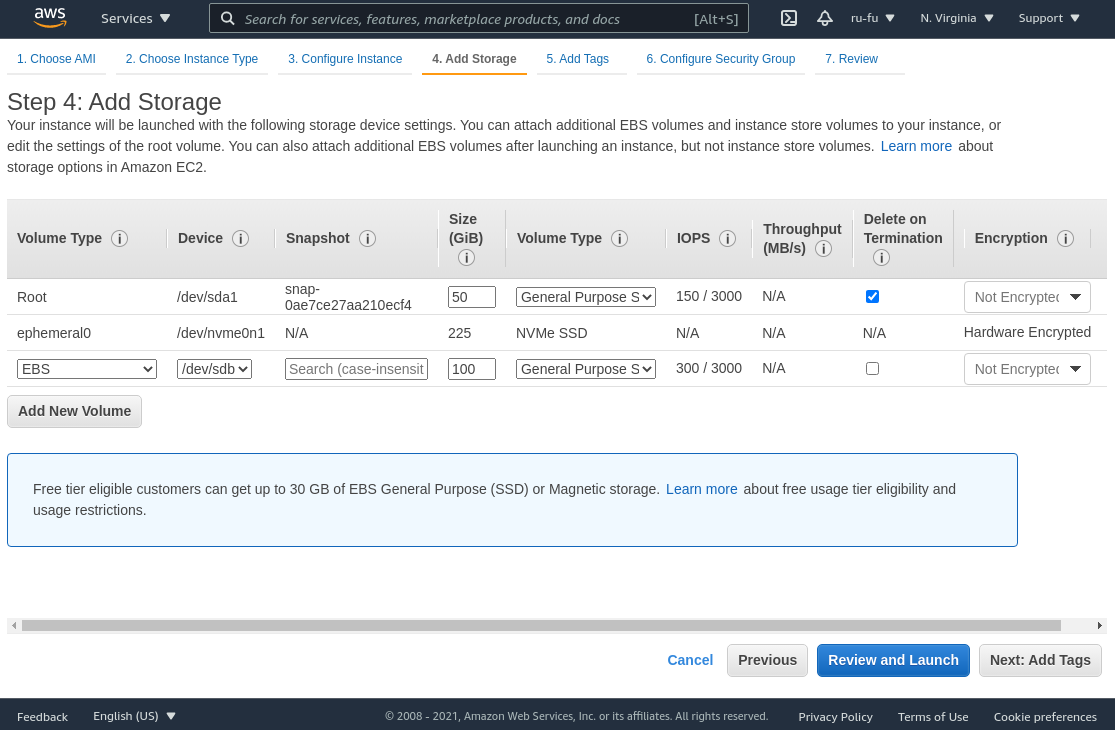
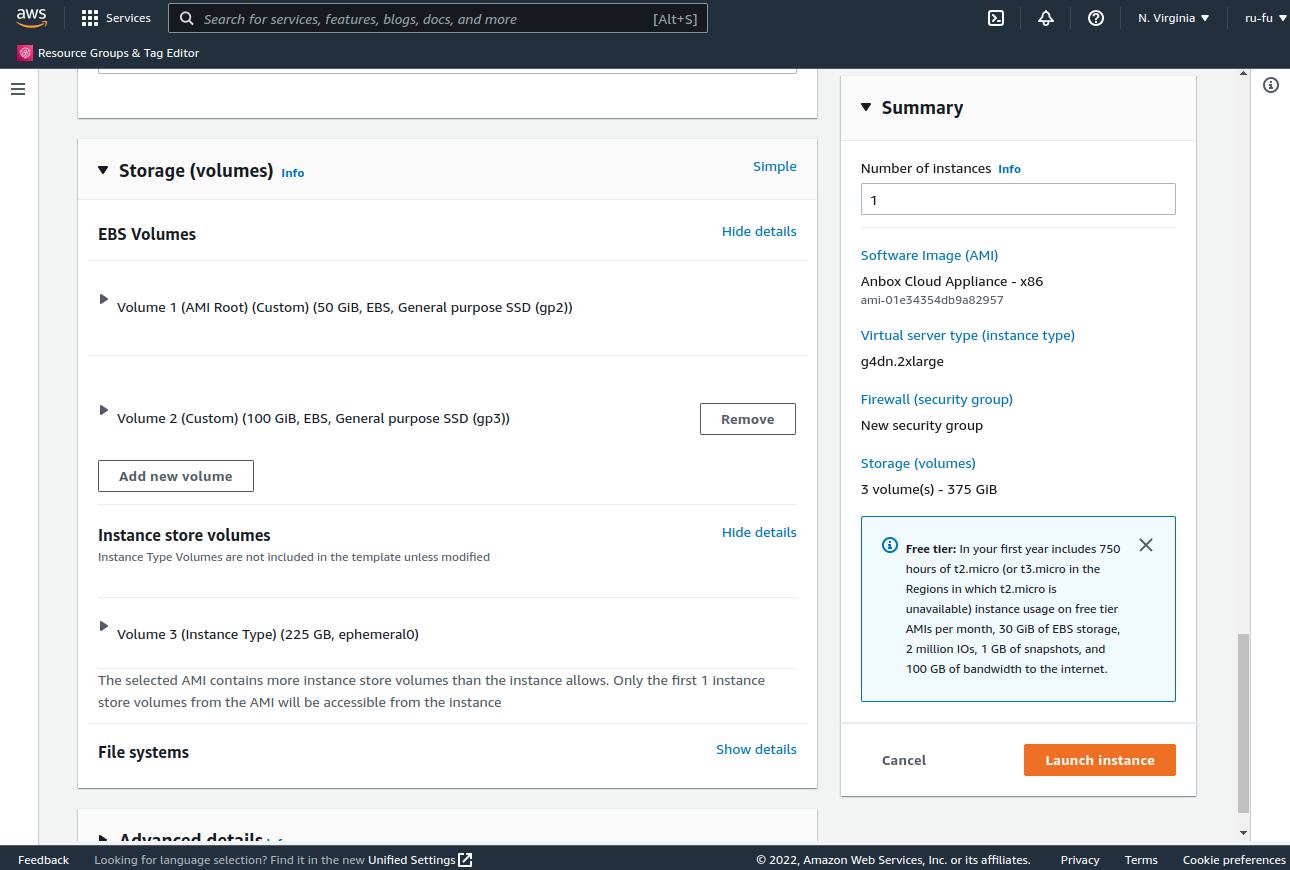
update AWS installation to new wizard

diff --git a/howto/install-appliance/aws.md b/howto/install-appliance/aws.md
@@ -56,73 +56,72 @@ On the EC2 dashboard, click **Launch Instance** to start the Launch Instance Wiz
 
 ![Start the Launch Instance Wizard|690x451](https://assets.ubuntu.com/v1/17073a3d-install_appliance_launch-wizard.png)
 
-[note type="information" status="Note"]You should go through all steps in the wizard before launching the instance. In most steps, you can accept the default configuration, but you must configure the required storage for the instance. Therefore, do not click **Review and Launch** until you reach the final page of the wizard.[/note]
-
 ### 2. Select the AMI
 
-To select the Amazon Machine Image (AMI), type "Anbox Cloud" in the search field.
+To select the Amazon Machine Image (AMI), type "Anbox Cloud" in the search field of the **Application and OS Images** section.
+
+![Search for the Anbox Cloud Appliance AMI|690x451](../../images/install_appliance_search-ami.png)
 
 Choose either the Arm variant or the x86 variant and click **Select**.
 
-![Select the Amazon Machine Image (AMI)|690x451](https://assets.ubuntu.com/v1/ce51218c-install_appliance_select-ami.png)
+![Select the Amazon Machine Image (AMI)|690x451](../../images/install_appliance_select-ami.png)
 
 You will be presented with the pricing information. Click **Continue** to confirm.
 
 ### 3. Choose an instance type
 
-AWS offers various instance types. The Anbox Cloud Appliance images are listed for a subset of the available instance types only.
+AWS offers various instance types. The Anbox Cloud Appliance images are supported for a subset of the available instance types only.
 
-Select the instance type that is most suitable for what you're planning to do. For example, if you just want to try out the Anbox Cloud Appliance, an instance type with GPU support and limited CPU and memory is sufficient. See the [Requirements](https://discourse.ubuntu.com/t/installation-requirements/17734#appliance) for the minimum hardware requirements.
+In the **Instance type** section, select the instance type that is most suitable for what you're planning to do. For example, if you just want to try out the Anbox Cloud Appliance, an instance type with GPU support and limited CPU and memory is sufficient. See the [Requirements](https://discourse.ubuntu.com/t/installation-requirements/17734#appliance) for the minimum hardware requirements.
 
-![Choose an instance type|690x451](https://assets.ubuntu.com/v1/f61efdc4-install_appliance_instance-type.png)
+![Choose an instance type|690x451](../../images/install_appliance_instance-type.png)
 
 In this example, we picked `g4dn.2xlarge`, which provides 8 vCPUs, 32 GB of memory and a single NVIDIA Tesla T4 GPU.
 
-Click **Next: Configure Instance Details** to continue.
+### 4. Select a key pair
 
-### 4. Configure the instance details
+In the **Key pair (login)** section, choose an existing key pair or create one if you don't have one yet. Make sure to save the private key in a secure location.
 
-You do not need to customise any of the settings in the instance details, but you can fine-tune things. For example, you might want to put the instance onto a different VPC or subnet.
+![Choose or create a key pair|690x451](../../images/install_appliance_key-pair.png)
 
-![Configure the instance details|690x451](https://assets.ubuntu.com/v1/3aed5594-install_appliance_configure-instance.png)
+### 5. Configure the network
 
-Click **Next: Add Storage** to continue.
+You do not need to customise any of the settings in the **Network settings** section, but you can fine-tune things. For example, you might want to put the instance onto a different VPC or subnet.
 
-### 5. Add storage
+To allow external access, several ports in the security group attached to the AWS instance must be open. The AMI already comes with the required configuration, so you don't need to do any changes. However, for security reasons, you might want to limit access to specific source IPs or subnets.
 
-The Anbox Cloud instance requires sufficient storage to work correctly. The root disk should have at minimum 50 GB and for best performance, you should create an additional EBS volume of at least 50 GB. Anbox Cloud uses the additional volume exclusively to store all of its data, including containers. Using a separate volume isolates it from the operating system, which increases performance. If no additional EBS volume is added, the Anbox Cloud Appliance automatically creates an image on the root disk, which is used to store any data. However, this is not recommended.
+For reference, all required ports are documented [here](https://discourse.ubuntu.com/t/requirements/17734).
 
-![Add storage|690x451](https://assets.ubuntu.com/v1/1ee4160c-install_appliance_add-storage.png)
+![Configure the security group|690x451](../../images/install_appliance_security-group.png)
+
+### 6. Add storage
+
+The Anbox Cloud instance requires sufficient storage to work correctly. For optimal performance, we recommend the following setup:
+
+* A root disk with a minimum of 50 GB (required)
+* An additional EBS volume of at least 50 GB (strongly recommended)
+
+Anbox Cloud uses the additional volume exclusively to store all of its data, including containers. Using a separate volume isolates it from the operating system, which increases performance. If no additional EBS volume is added, the Anbox Cloud Appliance automatically creates an image on the root disk, which is used to store any data. However, this is not recommended.
+
+![Add storage|690x451](../../images/install_appliance_add-storage.png)
 
 In this example, we use three storage volumes:
 
-* `/dev/sda1` as root disk with a size of 50 GB.
-* An ephemeral `/dev/nvme0n1` disk (part of the `g4dn` instance), which is ignored by the Anbox Cloud Appliance.
-* `/dev/sdb` as EBS volume with a size of 100 GB.
+* Volume 1 at `/dev/sda1` as root disk with a size of 50 GB
+* Volume 2 at `/dev/sdb` as EBS volume with a size of 100 GB
+* Volume 3, an ephemeral disk at `/dev/nvme0n1`, which is part of the `g4dn` instance and which is ignored by the Anbox Cloud Appliance
 
 If you don't have any specific requirements, we recommend choosing the same configuration.
 
-Click **Next: Add Tags** and then **Next: Configure Security Group** to continue.
-
-### 6. Configure the security group
-
-To allow external access, you must open several ports in the security group attached to the AWS instance. The AMI already comes with the required configuration, so you don't need to do any changes. For reference, all required ports are documented [here](https://discourse.ubuntu.com/t/requirements/17734).
-
-![Configure the security group|690x451](https://assets.ubuntu.com/v1/2910cbd3-install_appliance_security-group.png)
-
-Click **Review and Launch** to continue.
-
 ### 7. Review and launch
 
-You should now review the instance configuration. If everything is correct, click **Launch**.
+You should now review the instance summary. If everything is correct, click **Launch instance**.
 
-You are prompted to select a key pair. You can choose an existing key pair or create one if you don't have one yet. Make sure to save the private key in a secure location.
+![Launch the instance|690x451](../../images/install_appliance_launch-instance.png)
 
-![Confirm to launch instances|690x451](https://assets.ubuntu.com/v1/c13f7244-install_appliance_launch-instances.png)
+AWS will verify your configuration, subscribe you to the product and launch the instance.
 
-Click **Launch Instances** to continue. AWS will verify your configuration, subscribe you to the product and launch the instance.
-
-![Launch status|690x451](https://assets.ubuntu.com/v1/5115a09d-install_appliance_launch-status.png)
+![Launch status|690x451](../../images/install_appliance_launch-status.png)
 
 ## Access the appliance
 
